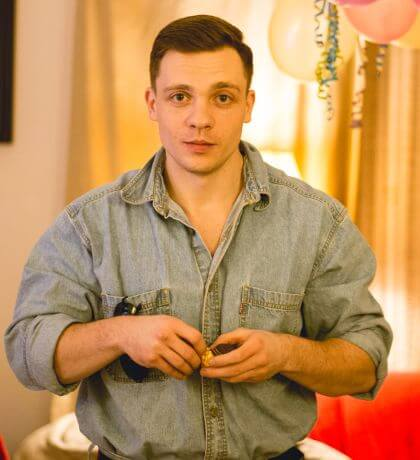
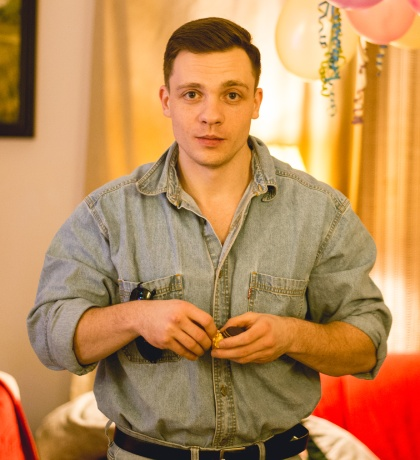
fixed push in main dir

diff --git a/src/index.html b/src/index.html
@@ -17,20 +17,20 @@
     class="font-mainFontFamily bg-backgroundColor text-white max-w-contentWidth m-auto px-6"
   >
     <header
-      class="sticky top-0 pt-20 z-10 md:pt-0 md:h-20 md:flex md:justify-end md:items-center bg-backgroundColor"
+      class="sticky top-0 pt-20 z-10 lg:pt-0 lg:h-20 lg:flex lg:justify-end lg:items-center bg-backgroundColor"
     >
       <div class="absolute left-4 top-5 flex gap-x-4">
         <img src="img/logo.svg" alt="logo strony" class="h-10 w-10" />
         <div>
-          <h1 class="text-xl text-primaryColor">Krzystof Kalinowski</h1>
+          <h1 class="text-base md:text-xl text-primaryColor">Krzystof Kalinowski</h1>
           <p class="text-xs text-gray-400">FRONTEND DEVELOPER</p>
         </div>
       </div>
-      <button class="absolute right-4 top-6 z-2 md:hidden hamburger--js">
+      <button class="absolute right-4 top-6 z-2 lg:hidden hamburger--js">
         <img src="img/hamburger.svg" class="w-8 h-8 z-2" />
       </button>
-      <nav class="p-4 hidden md:block z-2 menu--js">
-        <ul class="md:flex md: gap-x-10 items-center">
+      <nav class="p-4 hidden lg:block z-2 menu--js">
+        <ul class="lg:flex lg: gap-x-10 items-center">
           <li class="mb-2 hover:text-primaryColor">
             <a href="#about">About</a>
           </li>
@@ -44,10 +44,10 @@
             <a
               download
               href="#"
-              class="flex gap-x-2 md:py-2 md:px-6 md:bg-primaryColor md:text-backgroundColor md:rounded-2xl"
+              class="flex gap-x-2 lg:py-2 lg:px-6 lg:bg-primaryColor lg:text-backgroundColor lg:rounded-2xl lg:hover:bg-primaryColorHover transition-all duration-500"
               ><img
                 src="img/resume-svg.svg"
-                class="hidden md:block"
+                class="hidden w-6 h-6 lg:block"
               />Resumes</a
             >
           </li>
@@ -78,12 +78,12 @@
           <div class="flex-col flex gap-y-4 xl:flex-row xl:gap-x-4">
             <a
               href="#contact"
-              class="py-2 px-4 bg-primaryColor text-backgroundColor font-bold rounded-2xl flex gap-x-3 items-center max-xl:w-max"
+              class="py-2 px-4 bg-primaryColor text-backgroundColor font-bold rounded-2xl flex gap-x-3 items-center max-xl:w-max transition-all duration-500 hover:bg-primaryColorHover"
               ><img src="img/chat-icon.svg" alt="chat icon" />Get in touch</a
             >
             <a
-              href="#skills"
-              class="py-2 px-4 bg-backgroundColor text-primaryColor font-bold rounded-2xl border-gray-800 border-2 flex gap-x-3 items-center max-xl:w-max"
+              href="#about"
+              class="py-2 px-4 bg-backgroundColor text-primaryColor font-bold rounded-2xl border-gray-800 border-2 flex gap-x-3 items-center max-xl:w-max transition-all duration-500 hover:border-primaryColorHover"
               ><img src="img/user-icon.svg" alt="user icon" />Get to know me</a
             >
           </div>
@@ -91,7 +91,7 @@
         <img
           src="img/kalinowski-cv.jpg"
           alt="Krzysztof Kalinowski"
-          class="rounded-xl rounded-tr-imgRadius order-first lg:order-none"
+          class="rounded-xl rounded-tr-imgRadius order-first max-w-96 lg:order-none"
         />
       </section>
       <section
@@ -221,36 +221,6 @@
                 >
                   Accessibility
                 </li>
-                <li
-                  class="after:content-['-'] after:left-0 after:absolute ml-3"
-                >
-                  JS: Local storage and cookies
-                </li>
-                <li
-                  class="after:content-['-'] after:left-0 after:absolute ml-3"
-                >
-                  JS: DOM manipulation
-                </li>
-                <li
-                  class="after:content-['-'] after:left-0 after:absolute ml-3"
-                >
-                  SEO
-                </li>
-                <li
-                  class="after:content-['-'] after:left-0 after:absolute ml-3"
-                >
-                  Git
-                </li>
-                <li
-                  class="after:content-['-'] after:left-0 after:absolute ml-3"
-                >
-                  Parcel
-                </li>
-                <li
-                  class="after:content-['-'] after:left-0 after:absolute ml-3"
-                >
-                  Figma
-                </li>
               </ul>
             </div>
           </article>
@@ -286,41 +256,6 @@
                   class="after:content-['-'] after:left-0 after:absolute ml-3"
                 >
                   Gatsby
-                </li>
-                <li
-                  class="after:content-['-'] after:left-0 after:absolute ml-3"
-                >
-                  Accessibility
-                </li>
-                <li
-                  class="after:content-['-'] after:left-0 after:absolute ml-3"
-                >
-                  JS: Local storage and cookies
-                </li>
-                <li
-                  class="after:content-['-'] after:left-0 after:absolute ml-3"
-                >
-                  JS: DOM manipulation
-                </li>
-                <li
-                  class="after:content-['-'] after:left-0 after:absolute ml-3"
-                >
-                  SEO
-                </li>
-                <li
-                  class="after:content-['-'] after:left-0 after:absolute ml-3"
-                >
-                  Git
-                </li>
-                <li
-                  class="after:content-['-'] after:left-0 after:absolute ml-3"
-                >
-                  Parcel
-                </li>
-                <li
-                  class="after:content-['-'] after:left-0 after:absolute ml-3"
-                >
-                  Figma
                 </li>
               </ul>
             </div>
@@ -405,7 +340,7 @@
       </p>
       <a
         href="mailto:krzykalinowski@gmail.com"
-        class="py-2 px-6 bg-primaryColor text-backgroundColor font-bold rounded-2xl flex gap-x-3 w-max text-xl"
+        class="py-2 px-6 bg-primaryColor text-backgroundColor font-bold rounded-2xl flex gap-x-3 w-max text-xl duration-500 hover:bg-primaryColorHover"
         >krzykalinowski@gmail.com</a
       >
       <p class="text-gray-400 text-center text-2xl">or find me</p>

diff --git a/tailwind.config.js b/tailwind.config.js
@@ -7,6 +7,7 @@ module.exports = {
         backgroundColor: '#020916',
         accentBackgroundColor: 'rgba(156, 163, 175, 0.1)',
         primaryColor: '#CEFF7E',
+        primaryColorHover: '#a7ff18',
       },
       fontFamily: {
         mainFontFamily: ['DM Sans', 'sans-serif'],
